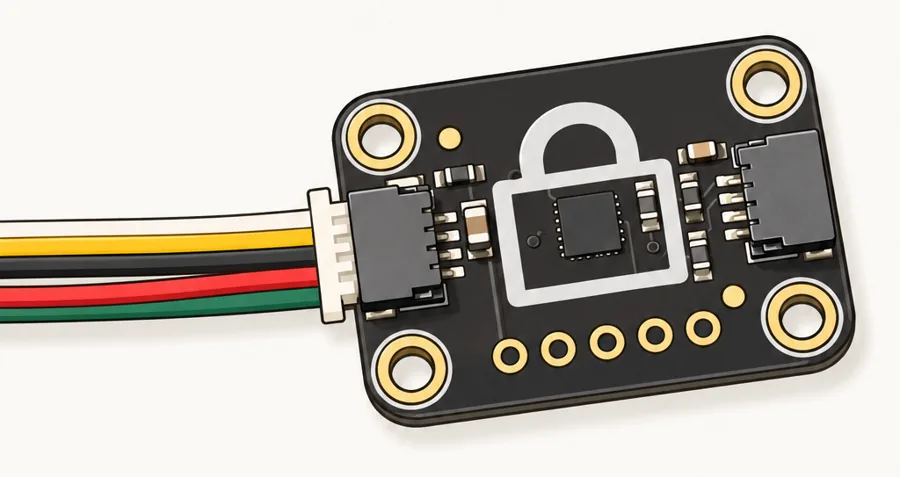
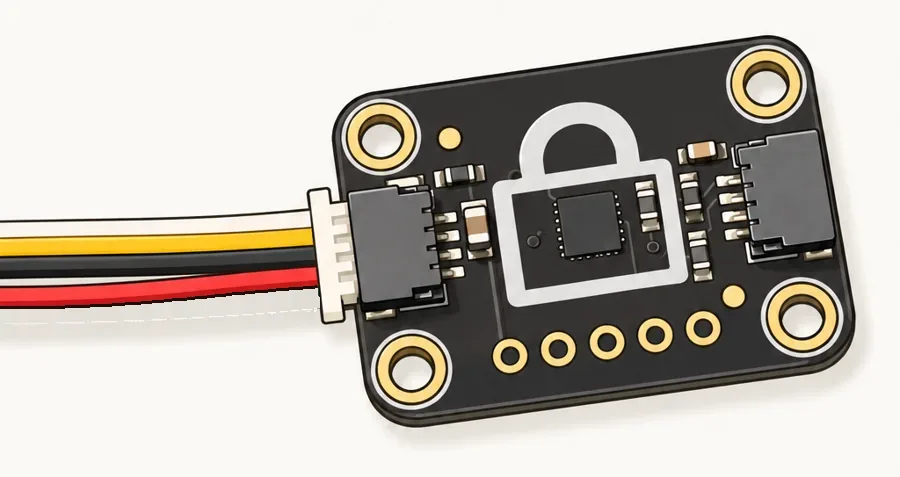
/assemble: step 2 drawing has only the 4 wires (green one removed), steps 4 and 13 rotated, step 7 shows the tape with holes poked, new step 10: plug in and tuck the chip

Changed region(s): [[0.0, 0.587, 0.3733, 0.7044]]

diff --git a/src/pages/assemble.ts b/src/pages/assemble.ts
@@ -3,7 +3,7 @@
 // clawd-pico-case/assembly/ASSEMBLY.md. Drawings and photos: public/img/assemble/ (tools/asmimg.py).
 import "./assemble.css";
 
-type Step = { t: string; p: string; d: string; ph: string[]; art?: string; tip?: string; warn?: string; end?: string };
+type Step = { t: string; p: string; d?: string; ph: string[]; art?: string; tip?: string; warn?: string; end?: string };
 
 // The screen board's sockets seen from above (board face down, USB end up): the top 8 holes of each
 // row. The four the chip uses are filled with their wire's color; the 4th on the right is struck out.
@@ -35,14 +35,14 @@ const STEPS: Step[] = [
     p: `The 4-wire cable (white, yellow, black, red) with its small plug, wire cutters and strippers, electrical tape, a stiff breadboard jumper wire, and tweezers.`,
     d: "01", ph: ["01-cable-and-strippers"] },
   { t: "How the plug fits the chip",
-    p: `The plug goes into the Trust M chip board. This is just to show the fit: you plug it in for real at step 10. Wire order across the plug: <b>white, yellow, black, red</b>.`,
-    d: "02", ph: ["02-cable-into-trust-m"] },
+    p: `The plug goes into the Trust M chip board. This is just to show the fit: you plug it in for real at step 10. Only 4 wires. Top to bottom: <b>white, yellow, black, red</b>.`,
+    d: "02", ph: ["02-trust-m-plug"] },
   { t: "Cut and strip the wires",
     p: `Keep one plug. Cut the wires about <b>2 in (5 cm)</b> from it. Strip off as much as a socket is deep, about <b>5 mm</b> (between 1/8 and 1/4 in), so the bare wire goes all the way down.`,
     d: "03", ph: ["03-cut-and-stripped-a", "03-cut-and-stripped-b"] },
   { t: "Lay out the screen board",
     p: `Turn the screen board face down, sockets up, USB mark at the top. Each wire pushes into a socket, no solder. Count sockets from the USB end:`,
-    d: "04", ph: ["04-board-and-wiring-guide"], art: HEADER,
+    d: "04", ph: ["04-board-and-guide"], art: HEADER,
     warn: `Never put anything in the 4th socket on the right row.` },
   { t: "Push in white and yellow",
     p: `Twist the strands at each tip tight, so each acts like one solid wire. Push <b>white into the 3rd</b> and <b>yellow into the 5th</b> socket on the right row.`,
@@ -52,15 +52,18 @@ const STEPS: Step[] = [
     d: "06", ph: ["06-tape-over-wires"] },
   { t: "Poke the holes open",
     p: `Push the stiff jumper wire through the tape into each covered socket. This opens the holes for the Pico's pins. The tape still holds the wires.`,
-    d: "07", ph: ["07-poke-holes-through-tape"] },
+    ph: ["08-black-red-taped", "07-poke-holes-through-tape"] },
   { t: "Black and red, same way",
     p: `On the left row: <b>black into the 6th</b>, <b>red into the 7th</b>. Tape over them. Poke the holes open.`,
     d: "08", ph: ["08-black-red-guide", "08-black-red-in-header", "08-black-red-taped"] },
   { t: "Header ready",
     p: `All 4 wires in, taped, holes open. Ready for the Pico.`,
     d: "09", ph: ["09-header-ready"] },
+  { t: "Plug in the chip",
+    p: `The cable's plug now hangs off the screen board. Plug it into the Trust M (it only fits one way). Tuck the Trust M in on the back of the screen board, at an angle between the two socket rows, off the pins. The Pico goes on top of it next.`,
+    ph: ["10-chip-wedged"] },
   { t: "Stack the boards",
-    p: `Plug the cable into the Trust M. Lay the Trust M at an angle on the back of the screen board. Push the Pico into the sockets, <b>USB-C at the same end as the screen board's USB mark</b>, the Pico's chips and BOOTSEL button facing out. Push straight, all the way in, until it's flush. The Trust M ends up wedged between the two boards.`,
+    p: `Push the Pico into the sockets, <b>USB-C at the same end as the screen board's USB mark</b>, the Pico's chips and BOOTSEL button facing out. Push straight, all the way in, until it's flush. The Trust M ends up wedged between the two boards.`,
     d: "10", ph: ["10-stacked-top", "10-chip-wedged", "10-headers-flush"],
     warn: `No pin, wire or chip sticking out. If anything does, do it again: it won't fit the case.` },
   { t: "Test the boards",
@@ -70,7 +73,7 @@ const STEPS: Step[] = [
     warn: `Chip fails? A wire is in the wrong socket, a wire came out, or the Trust M touches a Pico pin. Take it apart and check.` },
   { t: "Pick the base",
     p: `The base color says what's inside: <b>red</b> is a Pico W with a battery, <b>black</b> is the Trust M chip, <b>gray</b> is the ATECC608. This build is Trust M, so black.`,
-    d: "12", ph: ["12-bases"] },
+    d: "12", ph: ["13-bases"] },
   { t: "Peel the screen protector",
     p: `Pull the blue tab off the screen.`,
     d: "13", ph: ["13-screen-protector"] },
@@ -124,7 +127,7 @@ export function assemble(main: HTMLElement) {
           ${s.end || ""}
         </div>
         <figure class="draw">
-          <img src="${IMG}d${s.d}.webp" alt="Step ${i + 1}: ${s.t}" loading="lazy">
+          <img src="${s.d ? `${IMG}d${s.d}.webp` : `${IMG}p/${s.ph[0]}.webp`}" alt="Step ${i + 1}: ${s.t}" loading="lazy">
           <figcaption class="photos">${s.ph.map((f) => `<button type="button" data-ph="${f}" aria-label="Photo"><img src="${IMG}t/${f}.webp" alt="" loading="lazy"></button>`).join("")}</figcaption>
         </figure>
       </li>`).join("")}
